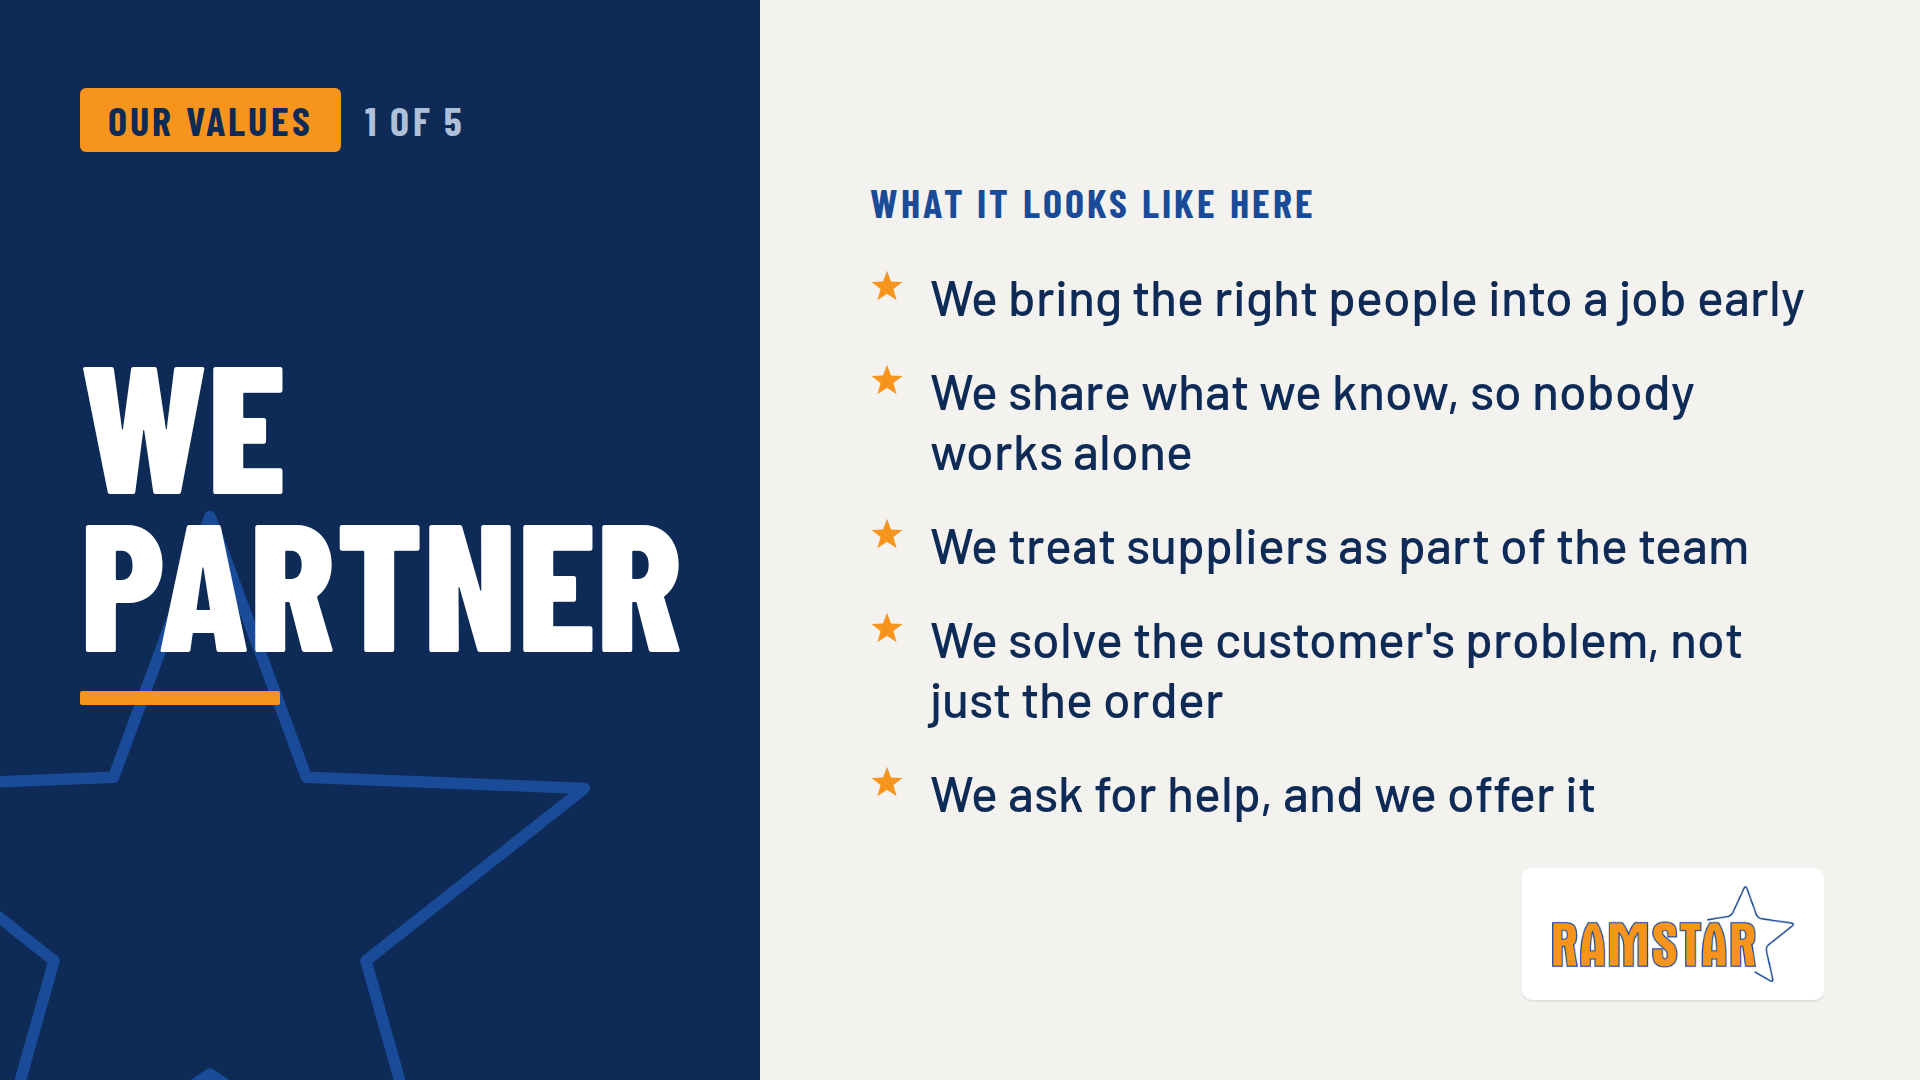
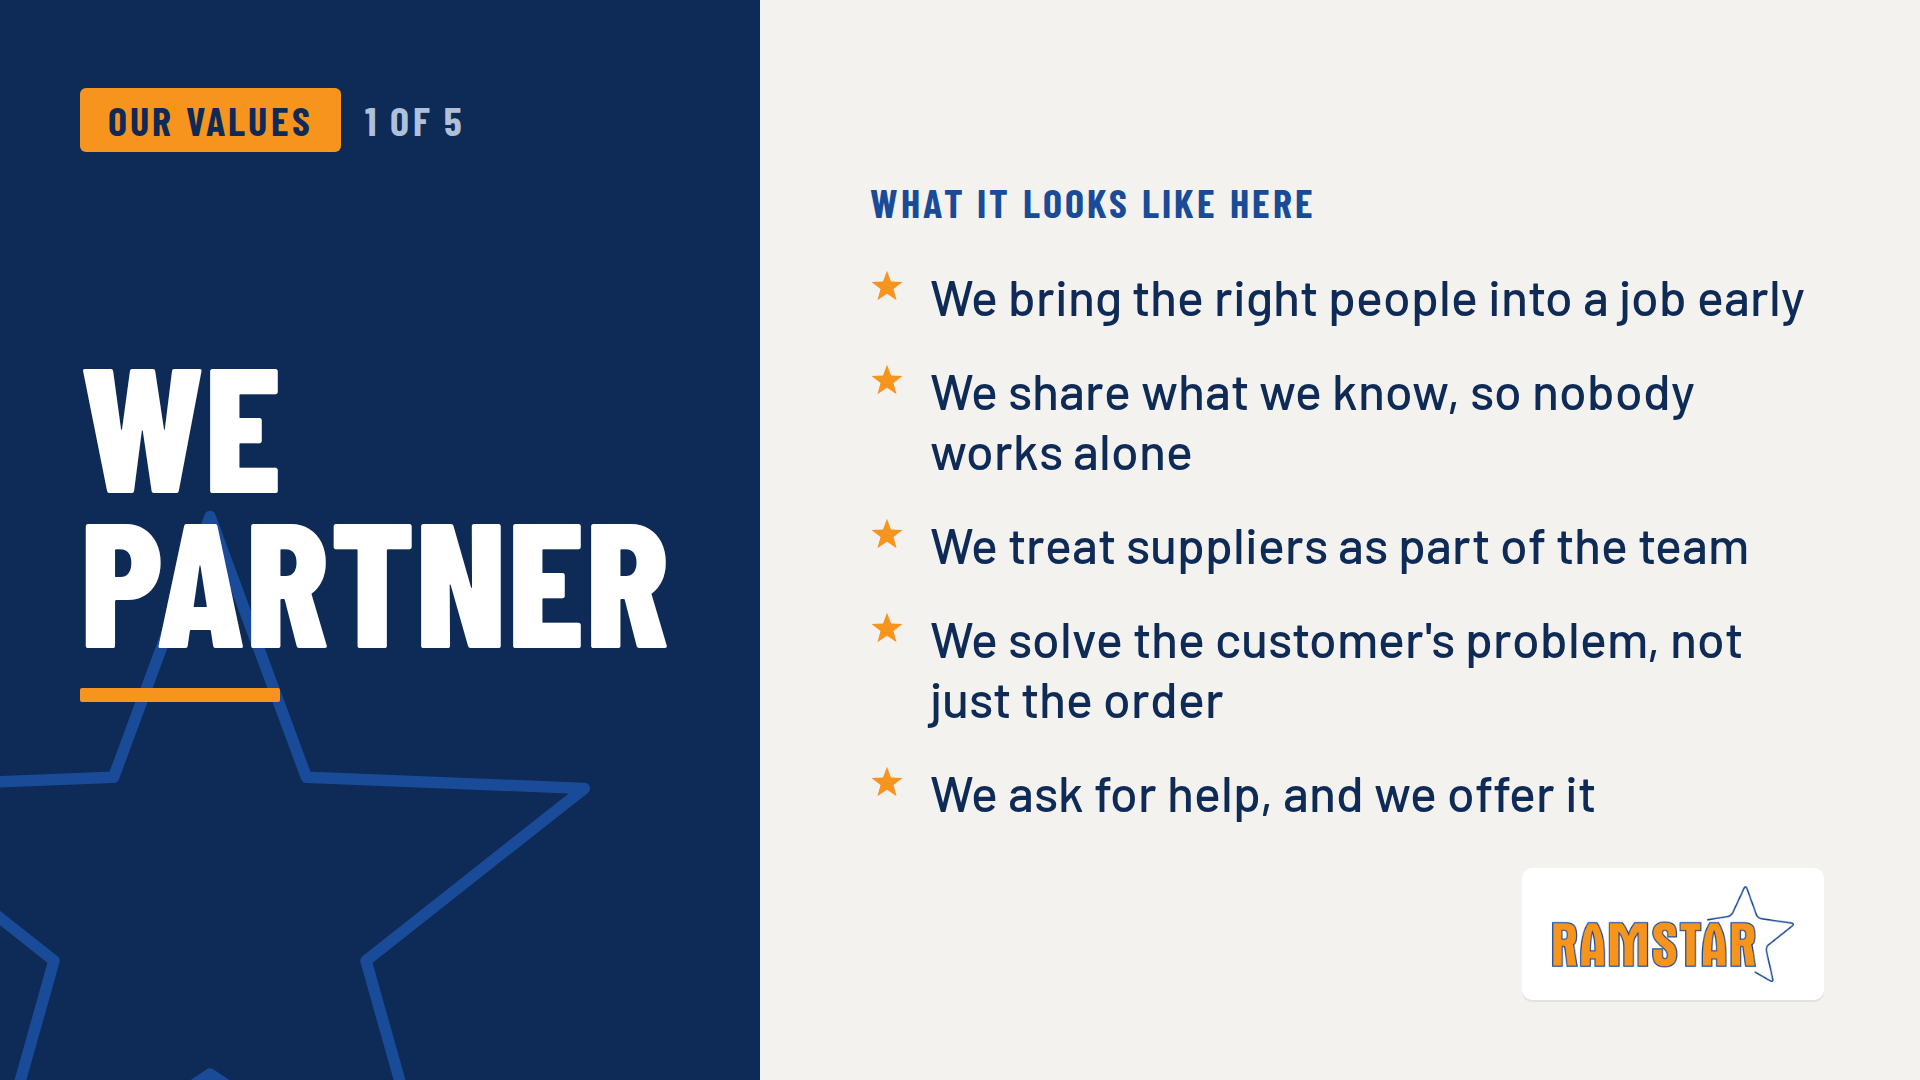
Fit value slide name and examples per design fit rules (#10)
* Fit value slide name and examples per design fit rules

Follows the two fit rules in docs/design/value/README.md:

1. The value name is the largest size (180 px max, 96 px min) at which
   its widest word fits the 600 px panel area; words never break
   mid-word. Fixes "WE ARE ALWAYS IMPROVING" breaking as "IMPROVIN / G".
2. The examples list ends at least 40 px above the logo badge, stepping
   50 -> 44 -> 40 px with the gap 34 -> 30 -> 26 px.

Both are measured once while the slide is built, before it fades in:
load() waits for the slide's fonts, and render() lays the slide out in a
hidden 1920x1080 box to measure. Adds the long-name design reference.

* Rename value slides' example key to examples

#9 put each value's list under "example", but the value slide reads
"examples", so the TVs showed an empty right side. Key rename only;
the wording is unchanged.

---------

Changed region(s): [[0.0625, 0.4889, 0.375, 0.6111], [0.0625, 0.3361, 0.1562, 0.4583]]

diff --git a/templates.js b/templates.js
@@ -414,18 +414,53 @@
   // ---------- Company value ----------
   // Split panel: the value on navy at the left, examples of it on the right.
 
-  // Example text sizes (design px), stepped down until the list clears the logo badge.
-  const EXAMPLE_SIZES = [50, 44, 40];
+  // Fit rules from docs/design/value/README.md (all sizes in design px).
+  const NAME_AREA = 600;  // the name's width inside the navy panel
+  const NAME_MAX = 180;
+  const NAME_MIN = 96;
+  const EXAMPLE_SIZES = [50, 44, 40]; // gap 34 / 30 / 26, in templates.css
+  const BADGE_CLEAR = 40; // the list ends this far above the logo badge
 
-  // Runs once per slide, after the player has put it on the page and the fonts
-  // have loaded, so line breaks are real. offsetTop/offsetHeight are design
-  // pixels relative to the slide: they ignore the --k scale and the entrance
-  // transforms. The column is centred, so an overfull list spills both ways.
+  // Rule 1: the name is the largest size, up to 180 px, at which its widest
+  // word fits the 600 px area, so words never break mid-word. A first guess
+  // from the canvas, then checked against real layout.
+  function fitName(name, text) {
+    const ctx = document.createElement("canvas").getContext("2d");
+    ctx.font = `800 ${NAME_MAX}px "Barlow Condensed"`;
+    const widest = Math.max(0, ...String(text || "").toUpperCase().split(/\s+/).map((w) => ctx.measureText(w).width));
+    let size = widest ? Math.floor(NAME_MAX * NAME_AREA / widest) : NAME_MAX;
+    size = Math.max(NAME_MIN, Math.min(NAME_MAX, size));
+    name.style.fontSize = `${size}px`;
+    while (size > NAME_MIN && name.scrollWidth > name.clientWidth) {
+      size -= 1;
+      name.style.fontSize = `${size}px`;
+    }
+  }
+
+  // Rule 2: the examples list ends above the logo badge, stepping the text
+  // down 50 -> 44 -> 40 px until it does. The column is centred, so an
+  // overfull list also spills above the top edge.
   function fitExamples(label, list, badge) {
-    const overlaps = () => label.offsetTop < 0 || list.offsetTop + list.offsetHeight > badge.offsetTop - 24;
+    const overlaps = () =>
+      label.offsetTop < 0 || list.offsetTop + list.offsetHeight > badge.offsetTop - BADGE_CLEAR;
     for (let i = 1; i < EXAMPLE_SIZES.length && overlaps(); i += 1) {
+      list.classList.remove(`t-examples--${EXAMPLE_SIZES[i - 1]}`);
       list.classList.add(`t-examples--${EXAMPLE_SIZES[i]}`);
     }
+  }
+
+  // Both rules are measured once, while the slide is built and before it
+  // fades in: the slide is laid out in a hidden 1920x1080 box for a moment,
+  // then handed to the player. offsetTop/offsetHeight are design pixels
+  // relative to the slide, whatever the screen size.
+  function fitValue(root, parts) {
+    const probe = h("div", "t-measure");
+    probe.appendChild(root);
+    document.body.appendChild(probe);
+    fitName(parts.name, parts.text);
+    if (parts.list) fitExamples(parts.label, parts.list, parts.badge);
+    probe.remove();
+    root.remove();
   }
 
   function bulletStar() {
@@ -435,6 +470,15 @@
   }
 
   types.value = {
+    // Wait for the slide's fonts so the fit rules measure real text. Asking
+    // for them by name also starts the download if no slide has used them yet.
+    load() {
+      if (!document.fonts || !document.fonts.load) return null;
+      return Promise.all([
+        document.fonts.load(`800 ${NAME_MAX}px "Barlow Condensed"`),
+        document.fonts.load(`500 ${EXAMPLE_SIZES[0]}px "Barlow"`)
+      ]).then(() => null, () => null); // no fonts (offline): show the slide anyway
+    },
     render(slide) {
       const anim = sequencer();
       const root = slideRoot("light t-slide--value", slide, "beat");
@@ -448,14 +492,17 @@
       add(head, tag(slide.tag || "Our Values"), slide.index ? h("div", "t-index", slide.index) : null);
       add(left, star("t-star--value", "#194B98"), anim(head));
       const main = h("div", "t-value-main");
-      add(main, anim(hero("h1", "t-title t-value-name", slide.name)), anim(h("div", "t-rule")));
+      const name = anim(hero("h1", "t-title t-value-name", slide.name));
+      add(main, name, anim(h("div", "t-rule")));
       add(left, main, h("div", "t-value-spacer"));
 
       const right = h("div", "t-value-right");
       const badge = logoBadge("right");
+      const parts = { name, text: slide.name, badge };
       if (examples.length) {
         const label = anim(h("div", "t-value-label", "What it looks like here"));
         const list = h("ul", "t-examples");
+        Object.assign(parts, { label, list });
         examples.forEach((text, i) => {
           const row = h("div", "t-ex-row");
           row.style.setProperty("--i", i); // the beat bumps each example in turn
@@ -463,12 +510,9 @@
           list.appendChild(anim(add(h("li", "t-ex"), row)));
         });
         add(right, label, list);
-        requestAnimationFrame(() => {
-          const fonts = document.fonts ? document.fonts.ready : Promise.resolve();
-          fonts.then(() => { if (root.isConnected) fitExamples(label, list, badge); });
-        });
       }
       add(root, left, right, badge);
+      fitValue(root, parts);
       starLast(root, anim);
       return root;
     }

diff --git a/docs/design/value/value-long-name.html b/docs/design/value/value-long-name.html
@@ -1,0 +1,31 @@
+<!doctype html>
+<html lang="en">
+<head>
+<meta charset="utf-8">
+<title>Value slide, long name auto-fitted (design reference)</title>
+<!-- Design reference only, not part of the player. Sample wording. Canvas size 1920x1080. -->
+<link rel="stylesheet" href="https://fonts.googleapis.com/css2?family=Barlow+Condensed:wght@600;700;800&family=Barlow:wght@500;600&display=swap">
+<style>body{margin:0;font-family:'Barlow',sans-serif}</style>
+</head>
+<body>
+<div style="width: 1920px; height: 1080px; position: relative; overflow: hidden; background: #F4F2EE; color: #0E2A56; font-family: 'Barlow', sans-serif; display: grid; grid-template-columns: 760px minmax(0, 1fr);">
+<div style="background: #0E2A56; color: #FFFFFF; position: relative; overflow: hidden; box-sizing: border-box; padding: 88px 80px; display: flex; flex-direction: column; justify-content: space-between;">
+<svg viewBox="0 0 100 100" style="position: absolute; left: -200px; bottom: -240px; width: 820px; height: 820px;" fill="none" stroke="#194B98" stroke-width="1.4" stroke-linejoin="round" aria-hidden="true"><polygon points="50,2 61.76,33.82 95.65,35.17 69.02,56.18 78.21,88.83 50,70 21.79,88.83 30.98,56.18 4.35,35.17 38.24,33.82"></polygon></svg>
+<div style="position: relative; display: flex; align-items: center; gap: 24px;">
+<div style="background: #F7941D; color: #0E2A56; font-family: 'Barlow Condensed', sans-serif; font-weight: 700; font-size: 40px; letter-spacing: 0.08em; text-transform: uppercase; padding: 8px 28px; border-radius: 6px;">Our Values</div>
+<div style="font-family: 'Barlow Condensed', sans-serif; font-weight: 700; font-size: 40px; color: #AFC0DA; letter-spacing: 0.08em;">1 OF 5</div>
+</div>
+<div style="position: relative; display: flex; flex-direction: column; gap: 32px;">
+<h1 style="margin: 0; font-family: 'Barlow Condensed', sans-serif; font-weight: 800; font-size: 150px; line-height: 0.88; text-transform: uppercase;">We Are<br>Always<br>Improving</h1>
+<div style="width: 200px; height: 14px; background: #F7941D; border-radius: 2px;"></div>
+</div>
+<div style="position: relative; height: 96px;"></div>
+</div>
+<div style="box-sizing: border-box; padding: 120px 110px 200px; display: flex; flex-direction: column; justify-content: center; gap: 40px;">
+<div style="font-family: 'Barlow Condensed', sans-serif; font-weight: 700; font-size: 40px; color: #194B98; text-transform: uppercase; letter-spacing: 0.08em;">What it looks like here</div>
+<ul style="list-style: none; margin: 0; padding: 0; display: flex; flex-direction: column; gap: 30px; max-width: 960px;"><li style="display: flex; align-items: flex-start; gap: 26px; font-size: 44px; line-height: 1.2; font-weight: 500;"><svg viewBox="0 0 100 100" width="34" height="34" style="flex: none; transform: translateY(4px);" aria-hidden="true"><polygon points="50,2 61.76,33.82 95.65,35.17 69.02,56.18 78.21,88.83 50,70 21.79,88.83 30.98,56.18 4.35,35.17 38.24,33.82" fill="#F7941D"></polygon></svg><span>We fix the root cause, not just the symptom</span></li><li style="display: flex; align-items: flex-start; gap: 26px; font-size: 44px; line-height: 1.2; font-weight: 500;"><svg viewBox="0 0 100 100" width="34" height="34" style="flex: none; transform: translateY(4px);" aria-hidden="true"><polygon points="50,2 61.76,33.82 95.65,35.17 69.02,56.18 78.21,88.83 50,70 21.79,88.83 30.98,56.18 4.35,35.17 38.24,33.82" fill="#F7941D"></polygon></svg><span>Every job ends with a quick "what would we change?"</span></li><li style="display: flex; align-items: flex-start; gap: 26px; font-size: 44px; line-height: 1.2; font-weight: 500;"><svg viewBox="0 0 100 100" width="34" height="34" style="flex: none; transform: translateY(4px);" aria-hidden="true"><polygon points="50,2 61.76,33.82 95.65,35.17 69.02,56.18 78.21,88.83 50,70 21.79,88.83 30.98,56.18 4.35,35.17 38.24,33.82" fill="#F7941D"></polygon></svg><span>Small ideas count, and we try them fast</span></li><li style="display: flex; align-items: flex-start; gap: 26px; font-size: 44px; line-height: 1.2; font-weight: 500;"><svg viewBox="0 0 100 100" width="34" height="34" style="flex: none; transform: translateY(4px);" aria-hidden="true"><polygon points="50,2 61.76,33.82 95.65,35.17 69.02,56.18 78.21,88.83 50,70 21.79,88.83 30.98,56.18 4.35,35.17 38.24,33.82" fill="#F7941D"></polygon></svg><span>We track the numbers that tell us we got better</span></li><li style="display: flex; align-items: flex-start; gap: 26px; font-size: 44px; line-height: 1.2; font-weight: 500;"><svg viewBox="0 0 100 100" width="34" height="34" style="flex: none; transform: translateY(4px);" aria-hidden="true"><polygon points="50,2 61.76,33.82 95.65,35.17 69.02,56.18 78.21,88.83 50,70 21.79,88.83 30.98,56.18 4.35,35.17 38.24,33.82" fill="#F7941D"></polygon></svg><span>We learn from mistakes without pointing fingers</span></li></ul>
+</div>
+<div style="position: absolute; right: 96px; bottom: 80px; background: #FFFFFF; border-radius: 10px; padding: 18px 30px; display: flex; box-shadow: 0 2px 0 rgba(14,42,86,0.08);"><img src="../../../assets/ramstar-logo.png" alt="Ramstar" style="height: 96px; width: auto; display: block;"></div>
+</div>
+</body>
+</html>

diff --git a/templates.css b/templates.css
@@ -197,7 +197,7 @@
 }
 .t-value-left > :not(.t-star) { position: relative; } /* above the star */
 .t-value-main { display: flex; flex-direction: column; gap: 32px; }
-.t-value-name { font-size: 180px; line-height: 0.88; margin-right: -40px; } /* a word like PARTNER needs ~600 px */
+.t-value-name { font-size: 180px; line-height: 0.88; overflow-wrap: normal; } /* size fitted in templates.js */
 .t-value-spacer { height: 96px; }
 .t-index {
   font: 700 40px/1.2 "Barlow Condensed", sans-serif;
@@ -233,9 +233,22 @@
 .t-ex-row { display: flex; align-items: flex-start; gap: 26px; font-size: 50px; line-height: 1.2; font-weight: 500; }
 .t-ex-star { flex: none; width: 34px; height: 34px; transform: translateY(4px); }
 .t-ex-star svg { display: block; width: 100%; height: 100%; }
-/* Fit guard steps (templates.js), when two-line examples would reach the logo badge */
+/* Fit steps (templates.js), when the list would reach the logo badge */
+.t-examples--44 { gap: 30px; }
+.t-examples--40 { gap: 26px; }
 .t-examples--44 .t-ex-row { font-size: 44px; }
 .t-examples--40 .t-ex-row { font-size: 40px; }
+/* Hidden box a value slide is laid out in for a moment, to measure its fit */
+.t-measure {
+  position: fixed;
+  left: 0;
+  top: 0;
+  width: 1920px;
+  height: 1080px;
+  visibility: hidden;
+  pointer-events: none;
+  overflow: hidden;
+}
 .t-examples--44 .t-ex-star,
 .t-examples--40 .t-ex-star { transform: translateY(2px); }
 

diff --git a/docs/design/value/value-with-examples.html b/docs/design/value/value-with-examples.html
@@ -16,7 +16,7 @@
 <div style="font-family: 'Barlow Condensed', sans-serif; font-weight: 700; font-size: 40px; color: #AFC0DA; letter-spacing: 0.08em;">1 OF 5</div>
 </div>
 <div style="position: relative; display: flex; flex-direction: column; gap: 32px;">
-<h1 style="margin: 0; font-family: 'Barlow Condensed', sans-serif; font-weight: 800; font-size: 180px; line-height: 0.88; text-transform: uppercase;">We<br>Partner</h1>
+<h1 style="margin: 0; font-family: 'Barlow Condensed', sans-serif; font-weight: 800; font-size: 176px; line-height: 0.88; text-transform: uppercase;">We<br>Partner</h1>
 <div style="width: 200px; height: 14px; background: #F7941D; border-radius: 2px;"></div>
 </div>
 <div style="position: relative; height: 96px;"></div>

diff --git a/README.md b/README.md
@@ -260,7 +260,7 @@ Each template from the design canvas is a slide type. The player builds it in HT
 | `birthdays` | `people` ✅ (list of `day` + `name`), `month`, `decor` | `month` defaults to the current month. Up to 8 people; more than 4 switches to a tighter layout. `day` can be `"9"` or `"Sat 9"`. Each person stays on one line; a very long name is cut short with "…". `decor` is the background decoration (below). |
 | `spotlight` | `name` ✅, `kind`, `since`, `blurb`, `logo` | `kind` is `"Customer"` (default) or `"Supplier"`. `logo` is an image path; without one, the company name fills the white box. |
 | `milestone` | `number` ✅, `label` ✅, `note` | A plain number like `"100,000"` counts up; anything else shows as typed. |
-| `value` | `name` ✅, `examples`, `index` | Split panel: the value on navy at the left, its examples listed under "What it looks like here" on the right. `examples` is a list of 4–5 short strings (up to 5 are shown); each may run to two lines, and if the list would reach the logo the text steps down (50 → 44 → 40 px) to fit. With no `examples` the right side stays empty. `index` is the small "1 of 5" label. The old `meaning` and `example` fields are no longer shown. |
+| `value` | `name` ✅, `examples`, `index` | Split panel: the value on navy at the left, its examples listed under "What it looks like here" on the right. The name sizes itself so its longest word fits the panel (up to 180 px, down to 96 px; words never break mid-word), so "We Are Always Improving" comes out at about 150 px. `examples` is a list of 4–5 short strings (up to 5 are shown); each may run to two lines, and if the list would come within 40 px of the logo the text steps down (50 → 44 → 40 px) to fit. Both are measured once as the slide is built (see `docs/design/value/README.md`). With no `examples` the right side stays empty; note the key is `examples`, plural. `index` is the small "1 of 5" label. The old `meaning` and `example` fields are no longer shown. |
 | `event` | `name` ✅, `date`, `time`, `location`, `note` | `date` is `YYYY-MM-DD`. The countdown calculates itself, shows **Today** on the day, and the slide **hides itself the day after**. With no date it shows "Save the date". |
 | `safety` | `since` or `days`, `tip`, `label` | Set `since` to the date of the last lost-time incident and the count keeps itself up to date. `days` is a fixed number instead. |
 | `logo` | `intro`, `slogan`, `logo` | A clean brand break: the logo with the slogan between two orange rules. `slogan` defaults to "Unmatched Service & Technology". `intro` is one of `rise`, `wipe`, `words`, `assemble`, `glint` (below), **or a list of them**, in which case the slide uses the next intro each time it comes round. The progress bar is hidden on logo slides. |

diff --git a/docs/design/value/README.md b/docs/design/value/README.md
@@ -2,9 +2,21 @@
 
 Approved layout (option B, split panel) for the `value` slide type. **Design reference only**: not loaded by the player. Sample wording.
 
-- Left: navy panel, 760 px wide. "Our Values" tag (orange) + index ("1 of 5"), the value name large (Barlow Condensed 800, 180 px, may break onto two lines), orange rule, star watermark.
+| File | Shows |
+|---|---|
+| `value-with-examples.html` / `.png` | Normal case: "We Partner", 5 examples at 50 px |
+| `value-long-name.html` / `.png` | Long name "We Are Always Improving" auto-fitted to 150 px; long examples stepped down to 44 px |
+
+Layout:
+- Left: navy panel, 760 px wide, 80 px side padding (600 px for the name). "Our Values" tag (orange) + index ("1 of 5"), value name (Barlow Condensed 800, uppercase, line-height 0.88), orange rule, star watermark.
 - Right: "What it looks like here" label, then 4–5 examples as a list with small orange star bullets (Barlow 500, 50 px, 34 px gap). Examples may run to two lines.
-- Ramstar logo badge bottom right, as on the other templates.
+- Ramstar logo badge bottom right, as on the other templates (top edge at y = 868).
 - The old `meaning` sentence and "In action" line are dropped.
+
+Fit rules (measured with the real fonts; both are required):
+1. **Value name fits its 600 px area.** Font size = largest that fits the widest single word in 600 px, max 180 px (min 96 px). Words never break mid-word. Measured at 180 px: "IMPROVING" = 712 px (→ 150 px), "PARTNER" = 603 px (→ 176 px), "ACCOUNTABILITY" = 1114 px (→ 96 px).
+2. **Examples list ends above the logo badge** (bottom < 868 px, keep ~40 px clear). If it doesn't, step the font down 50 → 44 → 40 px (gap 34 → 30 → 26). Five examples with three two-line items need 44 px.
+
+Measure once when the slide is built (before it fades in), never per frame.
 
 Data: `{ "type": "value", "index": "1 of 5", "name": "We Partner", "examples": ["...", "..."] }`
